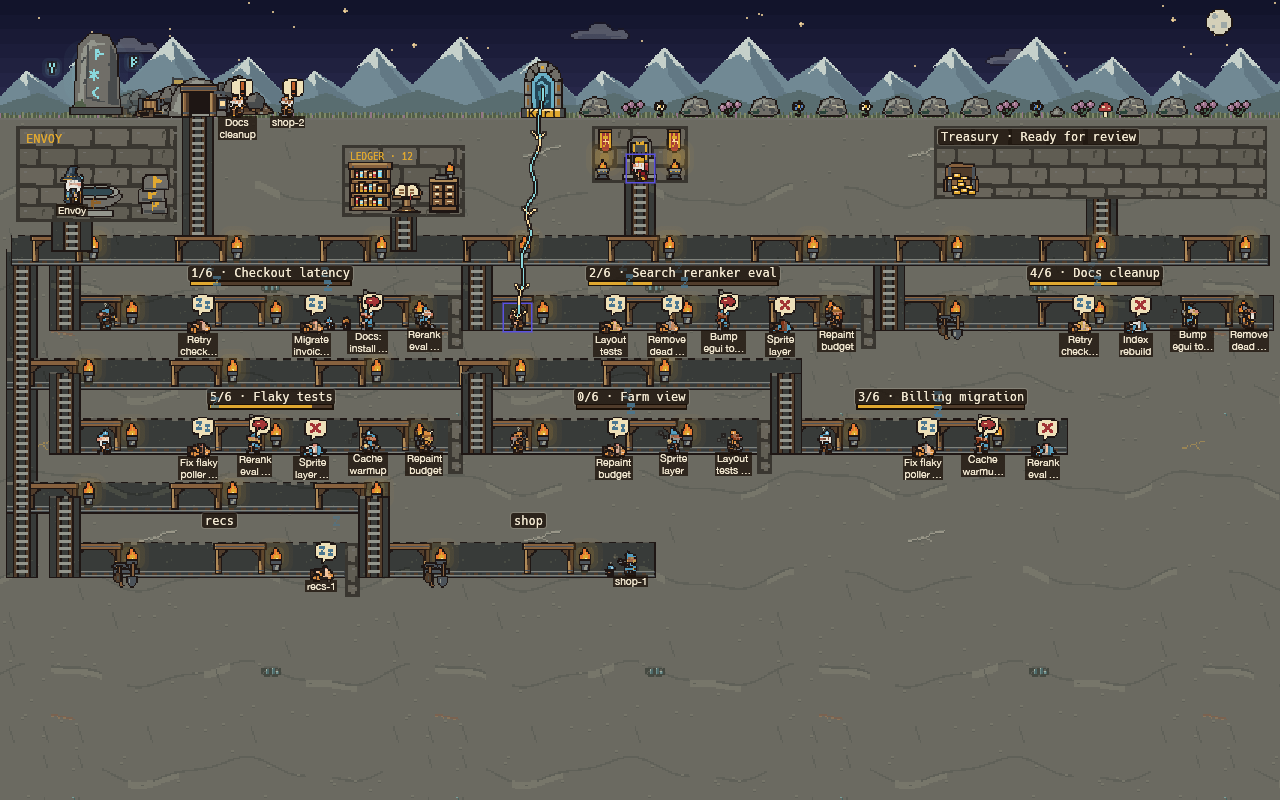
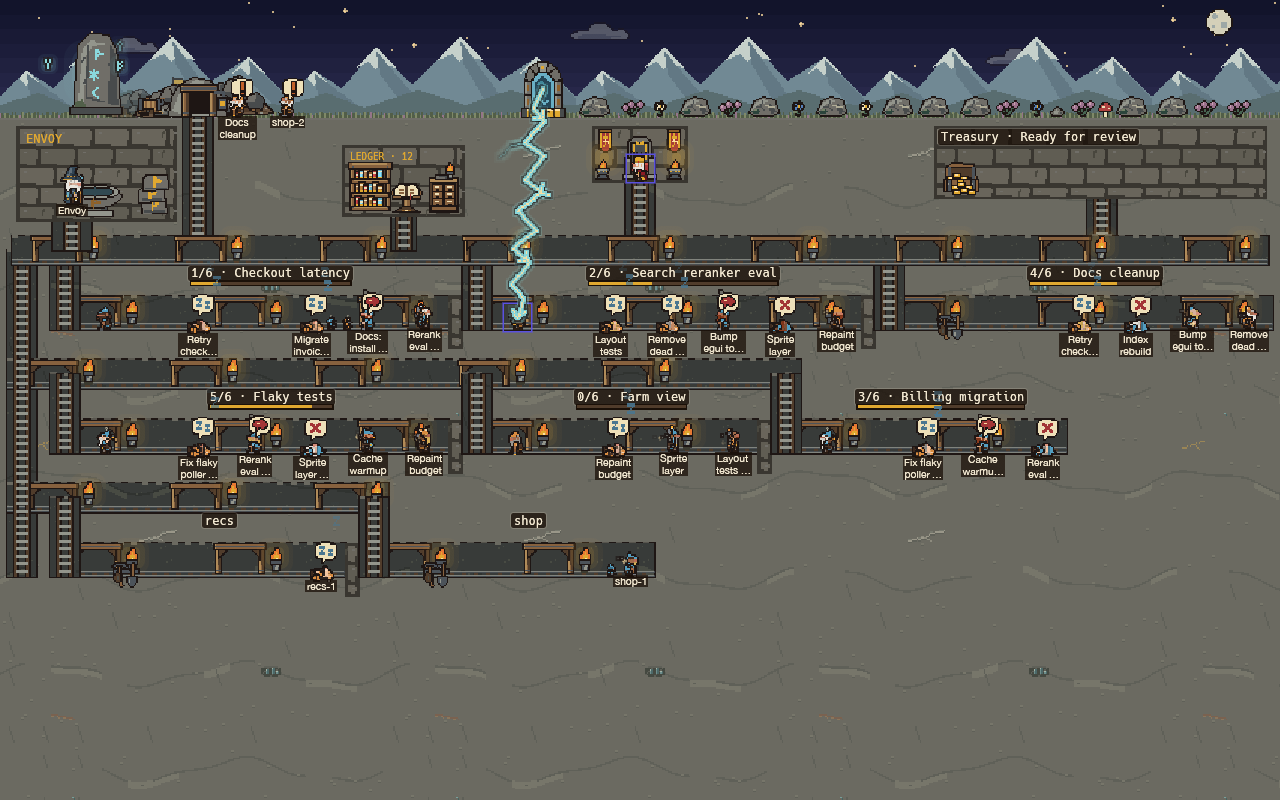
Give voice lightning jagged forks and a gentle brightness pulse

diff --git a/src/ui/farm/voice.rs b/src/ui/farm/voice.rs
@@ -56,26 +56,42 @@ impl Voice {
             return;
         }
         let time = if style.still { 0.0 } else { style.now_s };
-        let mut dots = Vec::with_capacity(1024);
+        let frame = (time * 10.0).floor() as u32;
+        let bolt = bolt(from, to, px, frame);
+        let mut dots = Vec::with_capacity(1536);
         let direction = (to - from).normalized();
-        let normal = vec2(-direction.y, direction.x);
-        let distance = from.distance(to);
-        let count = (distance / px).ceil().clamp(1.0, 1024.0) as usize;
-        let frame = (time * 12.0).floor() as f32;
-        for i in 0..=count {
-            let u = i as f32 / count as f32;
-            // A pinned zigzag, changing only at the pixel sprites' frame rate.
-            let bend = (u * 31.0 + frame * 1.7).sin() * (u * std::f32::consts::PI).sin() * 2.5 * px;
-            let at = from.lerp(to, u) + normal * bend;
-            if viewport.expand(4.0 * px).contains(at) {
-                let pulse = (u * 3.0 - time as f32 * 1.8).rem_euclid(1.0) < 0.18;
-                dots.push((snap(at, px), pulse));
+        for (i, segment) in bolt.windows(2).enumerate() {
+            let u = i as f32 / (bolt.len() - 1) as f32;
+            let pulse = (u * 3.0 - time as f32 * 1.8).rem_euclid(1.0) < 0.24;
+            raster(
+                &mut dots,
+                segment[0],
+                segment[1],
+                px,
+                if pulse { 1.0 } else { 0.8 },
+                viewport,
+            );
+            // Short, broken forks jump to a new joint each frame, tapering away from the
+            // main discharge. Endpoints stay pinned to portal and dwarf.
+            if i > 0 && (i as u32 + frame).is_multiple_of(5) {
+                let normal = vec2(-direction.y, direction.x);
+                let side = if noise(i as u32, frame) < 0.5 {
+                    -1.0
+                } else {
+                    1.0
+                };
+                let root = segment[0];
+                let elbow = root + (direction * 3.0 + normal * side * 9.0) * px;
+                let tip = root + (direction * 12.0 + normal * side * 16.0) * px;
+                raster(&mut dots, root, elbow, px, 0.5, viewport);
+                raster(&mut dots, elbow, tip, px, 0.3, viewport);
             }
         }
-        // Traveling chevrons make the direction readable even without watching the shimmer.
+        // The pulses and arrowheads travel along the jagged bolt toward the recipient.
         for i in 0..3 {
             let u = ((time as f32 * 0.6) + i as f32 / 3.0).fract();
-            arrow(&mut dots, from.lerp(to, u), direction, px);
+            let (tip, heading) = super::motion::along(&bolt, u);
+            arrow(&mut dots, tip, heading.normalized(), px);
         }
         let tip = edge_tip(safe, to);
         arrow(
@@ -90,21 +106,33 @@ impl Voice {
         );
         let mut mesh = Mesh::default();
         let rim = style.art.outline.pixels() * px;
-        for (at, _) in &dots {
+        // A gentle breath in brightness; reduced motion freezes it with the bolt.
+        let alpha = alpha * (0.88 + 0.12 * (time as f32 * std::f32::consts::TAU * 1.6).sin());
+        let cyan = super::comms::RUNE_GLOW;
+        for dot in &dots {
             mesh.add_colored_rect(
-                Rect::from_center_size(*at, Vec2::splat(px + 2.0 * rim)),
-                world::INK.gamma_multiply(0.7 * alpha),
+                Rect::from_center_size(dot.at, Vec2::splat(7.0 * px)),
+                cyan.gamma_multiply(0.13 * alpha * dot.strength),
             );
         }
-        for (at, bright) in dots {
+        for dot in &dots {
+            let width = if dot.strength > 0.5 { 3.0 } else { 1.0 } * px;
             mesh.add_colored_rect(
-                Rect::from_center_size(at, Vec2::splat(px)),
-                if bright {
-                    world::LIGHT
-                } else {
-                    super::comms::RUNE_GLOW
-                }
-                .gamma_multiply(alpha),
+                Rect::from_center_size(dot.at, Vec2::splat(width + 2.0 * rim)),
+                world::INK.gamma_multiply(0.4 * alpha * dot.strength),
+            );
+        }
+        for dot in &dots {
+            let width = if dot.strength > 0.5 { 3.0 } else { 1.0 } * px;
+            mesh.add_colored_rect(
+                Rect::from_center_size(dot.at, Vec2::splat(width)),
+                cyan.gamma_multiply(alpha * dot.strength),
+            );
+        }
+        for dot in dots.iter().filter(|d| d.strength > 0.5) {
+            mesh.add_colored_rect(
+                Rect::from_center_size(dot.at, Vec2::splat(px)),
+                world::LIGHT.gamma_multiply(alpha * dot.strength),
             );
         }
         // The hold's WorldArt::map_scene applies the chosen palette to this mesh too.
@@ -117,6 +145,54 @@ pub(super) struct Style<'a> {
     pub art: &'a ArtSettings,
     pub now_s: f64,
     pub still: bool,
+}
+
+struct Dot {
+    at: Pos2,
+    strength: f32,
+}
+
+/// A deterministic flicker, independent of the app's random state.
+fn noise(joint: u32, frame: u32) -> f32 {
+    let mut n = joint.wrapping_mul(0x9e37_79b1) ^ frame.wrapping_mul(0x85eb_ca77);
+    n ^= n >> 16;
+    n = n.wrapping_mul(0x7feb_352d);
+    n ^= n >> 15;
+    (n & 0xffff) as f32 / 65535.0
+}
+
+/// Straight, irregular segments rather than a sine wave: alternating sharp knees, with
+/// uneven spacing and amplitude. At most 32 segments, irrespective of camera zoom.
+fn bolt(from: Pos2, to: Pos2, px: f32, frame: u32) -> Vec<Pos2> {
+    let delta = to - from;
+    let distance = delta.length();
+    let normal = vec2(-delta.y, delta.x).normalized();
+    let joints = (distance / (12.0 * px)).ceil().clamp(4.0, 32.0) as usize;
+    let width = (distance * 0.12).min(9.0 * px);
+    let mut points = Vec::with_capacity(joints + 1);
+    points.push(from);
+    for i in 1..joints {
+        let seed = i as u32;
+        let u = (i as f32 + (noise(seed + 71, frame) - 0.5) * 0.6) / joints as f32;
+        let side = if i % 2 == 0 { -1.0 } else { 1.0 };
+        let bend = side * width * (0.25 + 0.75 * noise(seed, frame));
+        points.push(from + delta * u + normal * bend);
+    }
+    points.push(to);
+    points
+}
+
+fn raster(dots: &mut Vec<Dot>, from: Pos2, to: Pos2, px: f32, strength: f32, view: Rect) {
+    let delta = to - from;
+    let steps = (delta.x.abs().max(delta.y.abs()) / px)
+        .ceil()
+        .clamp(1.0, 64.0) as usize;
+    for i in 0..=steps {
+        let at = snap(from.lerp(to, i as f32 / steps as f32), px);
+        if view.expand(5.0 * px).contains(at) {
+            dots.push(Dot { at, strength });
+        }
+    }
 }
 
 fn snap(at: Pos2, px: f32) -> Pos2 {
@@ -133,12 +209,15 @@ fn edge_tip(view: Rect, to: Pos2) -> Pos2 {
     view.center() + delta * scale
 }
 
-fn arrow(dots: &mut Vec<(Pos2, bool)>, tip: Pos2, direction: Vec2, px: f32) {
+fn arrow(dots: &mut Vec<Dot>, tip: Pos2, direction: Vec2, px: f32) {
     let normal = vec2(-direction.y, direction.x);
     for step in 0..5 {
         for side in [-1.0, 1.0] {
             let at = tip + (-direction + normal * side) * step as f32 * px;
-            dots.push((snap(at, px), true));
+            dots.push(Dot {
+                at: snap(at, px),
+                strength: 1.0,
+            });
         }
     }
 }

diff --git a/docs/assets/voice-lightning/README.md b/docs/assets/voice-lightning/README.md
@@ -1,7 +1,9 @@
 # Recording speech in the hold
 
 The stream starts in Karl's portal and travels toward the transcript recipient, using
-pixel-snapped cyan runes, warm traveling arrowheads, and the hold's palette and ink width.
+sharp, irregular pixel segments, brief branching sparks, a bright core, and warm traveling
+arrowheads. A gentle 1.6 Hz brightness pulse runs through the cyan glow; the hold's palette
+and ink width apply to it.
 It discharges for 240 ms after recording stops or is cancelled. Transcription and playback
 do not keep it lit. Reduced motion keeps a static directional stream until discharge.
 
@@ -12,6 +14,8 @@ King fallback, unrelated fields, and the global King talk session's precedence.
 
 | State | Frame |
 | --- | --- |
+| Previous smooth stream, dwarf | [original dwarf](stream-dwarf-before.png) |
+| Previous smooth stream, King | [original King](stream-king-before.png) |
 | Before recording | [before](voice-before.png) |
 | Recording to the selected dwarf | [dwarf](voice-dwarf.png) |
 | Recording to the King (global talk destination) | [King](voice-king.png) |
@@ -30,4 +34,5 @@ cargo run --example farm -- --voice-shots --reduced-motion --outline bold --pale
 The hold follows the recipient's current walking position and camera transform. A recipient
 outside the viewport gets a directional arrow at the edge. Filtered or removed dwarves have
 no reliable position, so their stream is omitted. While idle, the effect allocates no geometry
-and requests no repaints; active geometry is bounded to 1,025 stream dots plus four chevrons.
+and requests no repaints; active geometry is bounded to 32 trunk segments, at most seven short forks, and four
+chevrons. Each segment uses at most 65 pixel samples, independent of camera zoom.
